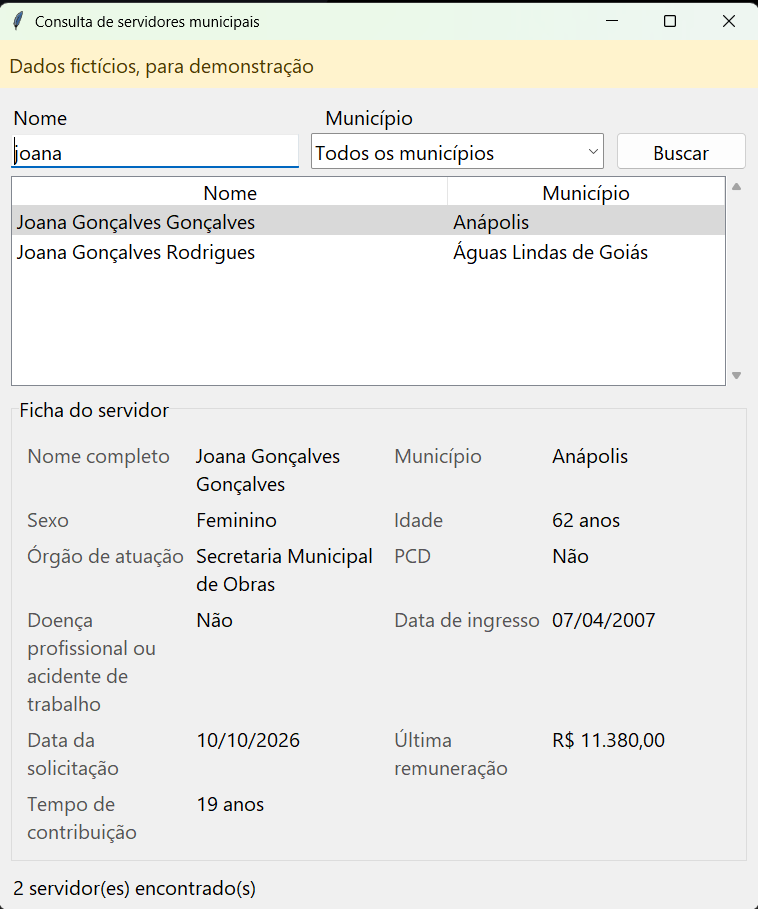
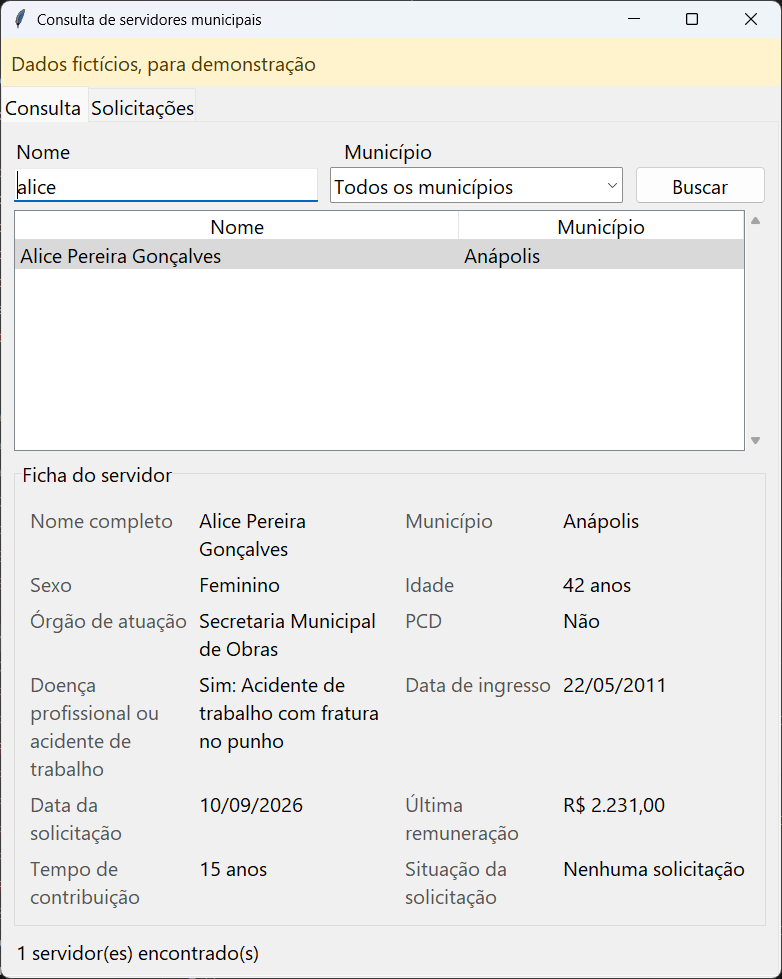
docs(resumo): capturas reais e resumo atualizados com a aba Solicitações
Regenera as 11 capturas da janela real (nomes novos, aprovar e desaprovar, situação na ficha), atualiza o resumo (6 operações, 191 testes, 18 RF, passo a passo de solicitações) e registra o checkpoint de 24/11.

diff --git a/docs/resumo/resumo-do-projeto.html b/docs/resumo/resumo-do-projeto.html
@@ -44,10 +44,10 @@
 
 <h1>Consulta de servidores municipais</h1>
 <p class="sub">Protótipo cliente-servidor com comunicação protegida por TLS, feito para a Secretaria de Atos de Pessoal do TCM-GO (Projeto Integrador III-A, PUC Goiás).</p>
-<p class="meta">Resumo técnico para acompanhamento do projeto, em 18/11/2026. Não é o relatório oficial do PI (RP-03), que tem formato e seções próprios. Dados do sistema: 100% fictícios.</p>
+<p class="meta">Resumo técnico para acompanhamento do projeto, em 24/11/2026. Não é o relatório oficial do PI (RP-03), que tem formato e seções próprios. Dados do sistema: 100% fictícios.</p>
 
 <div class="box">
-  <strong>Em uma frase:</strong> um servidor Python guarda uma base fictícia de 50 servidores de 10 municípios de Goiás e responde, por um canal TLS, às buscas de uma janela Tkinter, que mostra a lista de resultados e a ficha completa de cada servidor. O cliente só confia em servidores com certificado emitido pela CA local do projeto.
+  <strong>Em uma frase:</strong> um servidor Python guarda uma base fictícia de 50 servidores de 10 municípios de Goiás e responde, por um canal TLS, às buscas de uma janela Tkinter, que mostra a lista de resultados e a ficha completa de cada servidor. Uma segunda aba traz 10 requerimentos de aposentadoria fictícios, que o analista aprova ou desaprova, com a situação gravada no servidor. O cliente só confia em servidores com certificado emitido pela CA local do projeto.
 </div>
 
 <h2>1. O que a proposta pede e o que o sistema entrega</h2>
@@ -55,8 +55,8 @@
 <table>
   <tr><th style="width:21%">Pedido da proposta</th><th>Como o projeto atende</th><th style="width:14%">Situação</th></tr>
   <tr><td>Instituição real e necessidade identificada</td><td>TCM-GO. A análise de aposentadorias exige consultar a situação funcional de servidores de vários municípios, hoje em fontes separadas. Representante: Juliana, chefe direta do estudante.</td><td class="ok">Definido</td></tr>
-  <tr><td>Servidor que armazena, recebe solicitações, processa e devolve</td><td><code>consulta/servidor.py</code> carrega <code>data/servidores.json</code>, atende cada conexão em uma thread e executa três operações: <code>municipios</code>, <code>buscar</code> e <code>ficha</code>.</td><td class="ok">Pronto</td></tr>
-  <tr><td>Cliente que consulta por rede e apresenta de forma organizada</td><td>Janela Tkinter (<code>consulta/interface.py</code>): campo de nome, filtro de município, lista de resultados e painel com a ficha. Cada ação vira uma requisição pela rede.</td><td class="ok">Pronto</td></tr>
+  <tr><td>Servidor que armazena, recebe solicitações, processa e devolve</td><td><code>consulta/servidor.py</code> carrega <code>data/servidores.json</code>, atende cada conexão em uma thread e executa seis operações: <code>municipios</code>, <code>buscar</code>, <code>ficha</code>, <code>solicitacoes</code>, <code>documento</code> e <code>decidir</code>. As solicitações ficam em <code>data/solicitacoes.json</code> (consulta/solicitacoes.py).</td><td class="ok">Pronto</td></tr>
+  <tr><td>Cliente que consulta por rede e apresenta de forma organizada</td><td>Janela Tkinter (<code>consulta/interface.py</code>): campo de nome, filtro de município, lista de resultados e painel com a ficha. A aba Solicitações lista os requerimentos, mostra o documento formal e tem os botões Aprovar e Desaprovar. Cada ação vira uma requisição pela rede.</td><td class="ok">Pronto</td></tr>
   <tr><td>Sem banco, execução local, sem hospedagem</td><td>Base em arquivo JSON, tudo em <code>127.0.0.1</code>, só biblioteca padrão do Python (um teste confere os imports).</td><td class="ok">Pronto</td></tr>
   <tr><td>Proteger a comunicação com recurso de segurança existente</td><td>TLS (módulo <code>ssl</code> do Python) com CA local criada pelo <code>openssl</code>. O cliente exige certificado assinado pela CA do projeto e recusa qualquer outro.</td><td class="ok">Pronto</td></tr>
   <tr><td>Evitar exposição de informação sensível</td><td>Base fictícia (aviso na janela e no README). A data de nascimento nunca sai do servidor, só a idade. Chaves privadas fora do Git. O log do servidor não registra o conteúdo das fichas.</td><td class="ok">Pronto</td></tr>
@@ -64,7 +64,7 @@
   <tr><td>Código-fonte com instruções de execução</td><td>Repositório no GitHub (PR #2 mergeado na <code>main</code>) e <code>README.md</code> com o passo a passo.</td><td class="ok">Pronto</td></tr>
   <tr><td>Relatório técnico PDF (até 5 págs)</td><td>A escrever, com as capturas de tela deste documento como evidência.</td><td class="pend">Pendente (07/12)</td></tr>
   <tr><td>Vídeo de até 10 min</td><td>A gravar: servidor e cliente rodando, uma busca, a ficha, a recusa do servidor falso.</td><td class="pend">Pendente (07/12)</td></tr>
-  <tr><td>Carta de Início e Termos assinados</td><td>Carta assinada pelo estudante e pelo professor. Termos aguardam o preenchimento e a assinatura da Juliana (prazo 23/11, 23h59).</td><td class="pend">Parcial</td></tr>
+  <tr><td>Carta de Início e Termos assinados</td><td>Carta assinada pelo estudante e pelo professor. Termos assinados e enviados em 20/11 (prazo 23/11, 23h59).</td><td class="ok">Pronto</td></tr>
 </table>
 
 <h2>2. Como o sistema funciona</h2>
@@ -97,7 +97,8 @@
 
 <ul>
   <li><strong>Protocolo:</strong> uma conexão TLS por requisição. O cliente envia uma linha JSON (UTF-8), o servidor responde uma linha JSON e a conexão fecha. Limite de 64 KiB por linha e 5 s de timeout.</li>
-  <li><strong>Operações:</strong> <code>municipios</code> (lista para o filtro), <code>buscar</code> (nome e município) e <code>ficha</code> (por id).</li>
+  <li><strong>Operações:</strong> <code>municipios</code> (lista para o filtro), <code>buscar</code> (nome e município), <code>ficha</code> (por id), <code>solicitacoes</code> (lista dos requerimentos), <code>documento</code> (requerimento de uma solicitação) e <code>decidir</code> (aprovar ou desaprovar).</li>
+  <li><strong>Solicitações:</strong> o servidor sorteia 10 solicitações de servidores diferentes na primeira execução e grava em <code>data/solicitacoes.json</code> (fora do Git). Todas nascem Pendentes. A decisão pode ser trocada, a última vale, e sobrevive a reiniciar o servidor. Se o arquivo estiver inválido, o servidor se recusa a subir, e uma falha ao gravar mantém a situação anterior.</li>
   <li><strong>Erros tratados:</strong> <code>REQUISICAO_INVALIDA</code>, <code>OPERACAO_DESCONHECIDA</code>, <code>NAO_ENCONTRADO</code> e <code>ERRO_INTERNO</code>. Um erro afeta só a conexão que o causou.</li>
   <li><strong>Cálculos no servidor:</strong> idade e tempo de contribuição, em anos completos, até a data da solicitação. O cliente só apresenta.</li>
   <li><strong>Janela que não trava:</strong> a rede roda em thread de trabalho, e o resultado volta por uma fila. Se o servidor cair, a janela mostra o aviso e continua aberta.</li>
@@ -118,8 +119,9 @@
   <tr><td>Interface</td><td>Janela Tkinter, no lugar de linha de comando</td><td>A proposta aceita CLI, mas a janela é mais apresentável no vídeo. Fonte de 12 pt ou mais para gravação de tela.</td></tr>
   <tr><td>Busca</td><td>Por trecho do nome, sem acento e sem diferenciar maiúsculas; filtro por município; nome vazio lista todos</td><td>O analista nem sempre lembra a grafia exata. Normalização em NFKD, igual para busca e comparação.</td></tr>
   <tr><td>Cálculos</td><td>Idade e tempo de contribuição em anos completos, até a data da solicitação</td><td>Mesma referência de data para os dois valores. Simplificação aceita pelo estudante.</td></tr>
-  <tr><td>Escopo recusado</td><td>Sem login, sem indicar elegibilidade à aposentadoria, sem edição de dados</td><td>A proposta manda evitar complexidade excessiva. O sistema só apresenta dados. Login ficou como melhoria futura.</td></tr>
-  <tr><td>Método de trabalho</td><td>Spec-Driven: PRD, TechSpec, 12 tasks, check-spec e execução task a task</td><td>Cada requisito (14 RF, 6 RNF, 6 RP) tem rastreio até um componente e um teste. Nada foi feito sem requisito.</td></tr>
+  <tr><td>Solicitações</td><td>10 requerimentos fictícios sorteados uma vez e gravados em arquivo; situação persistente (Pendente, Aprovada, Desaprovada)</td><td>Mostra o fluxo do analista sem banco de dados. O documento traz só os dados do requerimento: idade, tempo de contribuição, PCD, doença e remuneração ficam na aba Consulta, para o analista conferir. A decisão pode ser trocada para repetir a demonstração.</td></tr>
+  <tr><td>Escopo recusado</td><td>Sem login, sem indicar elegibilidade à aposentadoria, sem edição dos dados da base</td><td>A proposta manda evitar complexidade excessiva. O sistema só apresenta os dados da base; a única coisa gravada é a decisão das solicitações. Login ficou como melhoria futura.</td></tr>
+  <tr><td>Método de trabalho</td><td>Spec-Driven: PRD, TechSpec, 16 tasks, check-spec e execução task a task</td><td>Cada requisito (18 RF, 7 RNF, 6 RP) tem rastreio até um componente e um teste. Nada foi feito sem requisito.</td></tr>
 </table>
 
 <h2>4. Ferramentas usadas</h2>
@@ -127,54 +129,63 @@
 <table>
   <tr><th style="width:24%">Ferramenta</th><th>Uso no projeto</th></tr>
   <tr><td>Python 3.15 (código para 3.10+)</td><td>Servidor, cliente, scripts e testes. Módulos: <code>socket</code>, <code>ssl</code>, <code>threading</code>, <code>json</code>, <code>queue</code>, <code>unicodedata</code>, <code>datetime</code>, <code>argparse</code>.</td></tr>
-  <tr><td>Tkinter / ttk</td><td>Janela do cliente: <code>Entry</code>, <code>Combobox</code>, <code>Treeview</code> e painel de ficha.</td></tr>
+  <tr><td>Tkinter / ttk</td><td>Janela do cliente: <code>Notebook</code> (abas Consulta e Solicitações), <code>Entry</code>, <code>Combobox</code>, <code>Treeview</code>, painel de ficha e <code>Text</code> para o documento.</td></tr>
   <tr><td>OpenSSL 3.5</td><td>Gera a CA local e o certificado do servidor (<code>scripts/gerar_certificados.py</code>). No Windows vem com o Git for Windows.</td></tr>
-  <tr><td><code>unittest</code> e <code>ast</code></td><td>117 testes automatizados. O <code>ast</code> confere que nenhum import sai da biblioteca padrão.</td></tr>
+  <tr><td><code>unittest</code> e <code>ast</code></td><td>191 testes automatizados. O <code>ast</code> confere que nenhum import sai da biblioteca padrão.</td></tr>
   <tr><td>Git e GitHub</td><td>Commits no padrão Conventional Commits, uma branch de trabalho e Pull Request revisado e mergeado pelo estudante.</td></tr>
   <tr><td>Claude Code</td><td>Assistente de desenvolvimento, usado no fluxo Spec-Driven (levantamento do PRD, TechSpec, tasks em Gherkin, implementação e testes). Decisões e aprovações ficaram com o estudante.</td></tr>
   <tr><td>Context7</td><td>Consulta à documentação do módulo <code>ssl</code> do CPython (3.13), para configurar a verificação estrita do certificado.</td></tr>
 </table>
 
 <h2>5. O que o sistema mostra (capturas da janela real)</h2>
-<p>Capturas feitas em 18/11/2026 com o servidor e a janela reais, comunicando por TLS 1.3 em <code>127.0.0.1</code>. A faixa amarela avisa que os dados são fictícios.</p>
+<p>Capturas feitas em 24/11/2026 com o servidor e a janela reais, comunicando por TLS 1.3 em <code>127.0.0.1</code>. A faixa amarela avisa que os dados são fictícios. As capturas 7 a 10 usam um arquivo de solicitações novo, então o sorteio delas não é o mesmo da sua máquina.</p>
 
 <div class="duo">
-  <figure class="fig"><img src="img/01-inicial.png" alt="Janela inicial"><figcaption>1. Tela inicial: faixa de aviso, nome, filtro de município e botão Buscar.</figcaption></figure>
-  <figure class="fig"><img src="img/02-lista-joana.png" alt="Lista de resultados da busca joana"><figcaption>2. Busca por "joana": 2 resultados, de municípios diferentes.</figcaption></figure>
+  <figure class="fig"><img src="img/01-inicial.png" alt="Janela inicial"><figcaption>1. Tela inicial: faixa de aviso, abas Consulta e Solicitações, nome, filtro de município e botão Buscar.</figcaption></figure>
+  <figure class="fig"><img src="img/02-lista-marc.png" alt="Lista de resultados da busca marc"><figcaption>2. Busca por "marc": 2 resultados, de municípios diferentes (Márcia e Marcos).</figcaption></figure>
 </div>
 <div class="duo">
-  <figure class="fig"><img src="img/03-ficha.png" alt="Ficha do servidor"><figcaption>3. Ficha do servidor: datas em DD/MM/AAAA, valor em R$, idade e tempo de contribuição calculados no servidor.</figcaption></figure>
-  <figure class="fig"><img src="img/04-fatima.png" alt="Busca fatima sem acento encontra Fátima"><figcaption>4. "fatima" (sem acento) encontra "Fátima". A ficha mostra "Sim: Acidente de trabalho com fratura no punho".</figcaption></figure>
+  <figure class="fig"><img src="img/03-ficha.png" alt="Ficha do servidor"><figcaption>3. Ficha do servidor: datas em DD/MM/AAAA, valor em R$, idade e tempo de contribuição calculados no servidor. Aqui, "Sim: Acidente de trabalho com fratura no punho" e "Nenhuma solicitação".</figcaption></figure>
+  <figure class="fig"><img src="img/04-antonia.png" alt="Busca antonia sem acento encontra Antônia"><figcaption>4. "antonia" (sem acento) encontra "Antônia".</figcaption></figure>
 </div>
 <div class="duo">
   <figure class="fig"><img src="img/06-filtro-formosa.png" alt="Filtro por município Formosa"><figcaption>5. Filtro por município (Formosa) com nome vazio: lista os 5 servidores do município.</figcaption></figure>
   <figure class="fig"><img src="img/05-sem-resultado.png" alt="Nenhum servidor encontrado"><figcaption>6. Busca sem resultado: mensagem clara, sem erro.</figcaption></figure>
 </div>
 <div class="duo">
-  <figure class="fig"><img src="img/07-ca-falsa.png" alt="Servidor não confiável"><figcaption>7. Servidor com certificado de outra CA: o cliente recusa e avisa.</figcaption></figure>
+  <figure class="fig"><img src="img/08-solicitacao-pendente.png" alt="Aba Solicitações com requerimento pendente"><figcaption>7. Aba Solicitações: 10 requerimentos, todos Pendentes. O documento formal do selecionado aparece abaixo, com os botões Aprovar e Desaprovar.</figcaption></figure>
+  <figure class="fig"><img src="img/09-solicitacao-aprovada.png" alt="Requerimento aprovado"><figcaption>8. Depois de Aprovar: a lista e o documento passam a mostrar "Aprovada", com data e hora da decisão.</figcaption></figure>
+</div>
+<div class="duo">
+  <figure class="fig"><img src="img/10-solicitacao-desaprovada.png" alt="Requerimento desaprovado"><figcaption>9. Outra solicitação, Desaprovada. A lista mostra uma Aprovada, uma Desaprovada e as demais Pendentes.</figcaption></figure>
+  <figure class="fig"><img src="img/11-ficha-situacao.png" alt="Ficha com a situação da solicitação"><figcaption>10. A situação vai à ficha do servidor na aba Consulta: "Situação da solicitação: Aprovada".</figcaption></figure>
+</div>
+<div class="duo">
+  <figure class="fig"><img src="img/07-ca-falsa.png" alt="Servidor não confiável"><figcaption>11. Servidor com certificado de outra CA: o cliente recusa e avisa.</figcaption></figure>
   <div class="box" style="flex:1;margin-top:6px">
-    <strong>Por que a captura 7 importa.</strong> O servidor falso estava no ar e respondia por TLS, mas seu certificado foi assinado por uma CA diferente da <code>ca.crt</code> do projeto. O aperto de mão falhou antes de qualquer consulta, então nenhum dado foi trocado. O log do servidor falso registra <code>falha_de_conexao (SSLError)</code>. É a prova do requisito de proteger a comunicação (RF-14).
+    <strong>Por que a captura 11 importa.</strong> O servidor falso estava no ar e respondia por TLS, mas seu certificado foi assinado por uma CA diferente da <code>ca.crt</code> do projeto. O aperto de mão falhou antes de qualquer consulta, então nenhum dado foi trocado. O log do servidor falso registra <code>falha_de_conexao (SSLError)</code>. É a prova do requisito de proteger a comunicação (RF-14).
   </div>
 </div>
 
 <h2>6. Como foi testado e validado</h2>
 
-<h3>Resultado dos checks em 18/11/2026</h3>
-<pre class="cmd">python -m unittest discover -s tests          -> Ran 117 tests, OK (skipped=1)
+<h3>Resultado dos checks em 24/11/2026</h3>
+<pre class="cmd">python -m unittest discover -s tests          -> Ran 191 tests, OK (skipped=1)
 python -m compileall -q consulta scripts tests -> sem erros
 git check-ignore certs/servidor.key certs/ca.key -> ambos ignorados (chaves fora do Git)</pre>
 <p>O teste pulado é o que só se aplica a sistemas POSIX. Nenhum warning novo.</p>
 
 <table>
   <tr><th style="width:30%">Arquivo de teste</th><th style="width:9%">Testes</th><th>O que prova</th></tr>
-  <tr><td>test_integracao_tls.py</td><td>30</td><td>Servidor e cliente reais com TLS: as três operações, os quatro códigos de erro, duas consultas simultâneas, certificado de outra CA recusado, servidor parado, busca abaixo de 1 s.</td></tr>
-  <tr><td>test_interface.py</td><td>26</td><td>Janela com cliente falso: lista, ficha, "nenhum resultado", erro de rede, faixa "dados fictícios", fonte de 12 pt ou mais.</td></tr>
+  <tr><td>test_integracao_tls.py</td><td>45</td><td>Servidor e cliente reais com TLS: as seis operações, os códigos de erro, duas consultas simultâneas, certificado de outra CA recusado, servidor parado, busca abaixo de 1 s, decisão que sobrevive a reiniciar o servidor.</td></tr>
+  <tr><td>test_solicitacoes.py</td><td>27</td><td>Sorteio de 10 solicitações gravado e reutilizado, situação inicial Pendente, aprovar, desaprovar e trocar a decisão, duas decisões ao mesmo tempo, arquivo inválido recusado, falha ao gravar sem arquivo pela metade, arquivo fora do Git.</td></tr>
+  <tr><td>test_interface.py</td><td>51</td><td>Janela com cliente falso: lista, ficha, "nenhum resultado", erro de rede, faixa "dados fictícios", fonte de 12 pt ou mais, aba Solicitações, documento formal, botões Aprovar e Desaprovar e respostas atrasadas descartadas.</td></tr>
   <tr><td>test_protocolo.py</td><td>14</td><td>Linha válida, JSON inválido, mensagem grande demais.</td></tr>
   <tr><td>test_busca.py</td><td>12</td><td>Acentos, maiúsculas, trecho do nome, filtro por município.</td></tr>
   <tr><td>test_certificados.py</td><td>11</td><td>Geração da CA e do certificado, <code>openssl verify</code>, chaves fora do Git.</td></tr>
-  <tr><td>test_dominio.py</td><td>8</td><td>Anos completos: aniversário no dia, na véspera e em 29/02; campos da ficha.</td></tr>
+  <tr><td>test_dominio.py</td><td>9</td><td>Anos completos: aniversário no dia, na véspera e em 29/02; campos da ficha.</td></tr>
   <tr><td>test_sem_dependencias_externas.py</td><td>7</td><td>Todo import vem da biblioteca padrão.</td></tr>
-  <tr><td>test_base.py e test_gerar_base.py</td><td>5 + 4</td><td>Base válida, 10 municípios e 50 servidores, geração idêntica byte a byte.</td></tr>
+  <tr><td>test_base.py e test_gerar_base.py</td><td>5 + 10</td><td>Base válida, 10 municípios e 50 servidores, nomes e sexo coerentes, geração idêntica byte a byte.</td></tr>
 </table>
 
 <h3>Rastreio: requisito da spec, prova</h3>
@@ -185,7 +196,8 @@ git check-ignore certs/servidor.key certs/ca.key -> ambos ignorados (chaves fora
   <tr><td>RF-10, RF-11 cliente-servidor e simultaneidade</td><td>Integração com duas consultas ao mesmo tempo, uma delas lenta.</td></tr>
   <tr><td>RF-12, RF-13 falhas</td><td>Servidor parado vira mensagem; solicitação inválida recebe erro e o servidor segue atendendo.</td></tr>
   <tr><td>RF-14 TLS e CA local</td><td>Handshake com a CA do projeto funciona; com outra CA o cliente recusa (captura 07).</td></tr>
-  <tr><td>RNF-01 a RNF-06</td><td>Faixa fictícia, chaves ignoradas pelo Git, busca abaixo de 1 s, imports da biblioteca padrão, fonte de 12 pt, certificados regeneráveis por script.</td></tr>
+  <tr><td>RF-15 a RF-18 solicitações</td><td>Testes de sorteio e persistência, de decisão (a última vale) e da aba; capturas 7 a 10 (seção 5).</td></tr>
+  <tr><td>RNF-01 a RNF-07</td><td>Faixa fictícia, chaves ignoradas pelo Git, busca abaixo de 1 s, imports da biblioteca padrão, fonte de 12 pt, certificados regeneráveis por script, gravação das solicitações sem corromper o arquivo.</td></tr>
 </table>
 
 <div class="box warn">
@@ -213,22 +225,34 @@ git check-ignore certs/servidor.key certs/ca.key -> ambos ignorados (chaves fora
 
   <li><strong>Terminal 2: abrir o cliente</strong>
     <pre class="cmd">python -m consulta.interface</pre>
-    <span class="esperado">Esperado: janela "Consulta de servidores municipais" com a faixa amarela "Dados fictícios, para demonstração". A lista de municípios carrega sozinha no filtro.</span></li>
+    <span class="esperado">Esperado: janela "Consulta de servidores municipais" com a faixa amarela "Dados fictícios, para demonstração" e as abas "Consulta" e "Solicitações". A lista de municípios carrega sozinha no filtro.</span></li>
 
-  <li><strong>Busca simples.</strong> Digite <code>joana</code> e clique em Buscar.
-    <span class="esperado">Esperado: 2 resultados: Joana Gonçalves Gonçalves (Anápolis) e Joana Gonçalves Rodrigues (Águas Lindas de Goiás). Rodapé: "2 servidor(es) encontrado(s)".</span></li>
+  <li><strong>Busca simples.</strong> Digite <code>marc</code> e clique em Buscar.
+    <span class="esperado">Esperado: 2 resultados: Márcia Rodrigues Araújo (Aparecida de Goiânia) e Marcos Santos Gonçalves (Itumbiara). Rodapé: "2 servidor(es) encontrado(s)".</span></li>
 
-  <li><strong>Abrir a ficha.</strong> Clique em "Joana Gonçalves Gonçalves".
-    <span class="esperado">Esperado: Feminino, 62 anos, Secretaria Municipal de Obras, PCD Não, doença profissional Não, ingresso 07/04/2007, solicitação 10/10/2026, remuneração R$ 11.380,00, tempo de contribuição 19 anos. Não aparece data de nascimento nem se o servidor "pode se aposentar".</span></li>
+  <li><strong>Abrir a ficha.</strong> Busque <code>alice</code> e clique em "Alice Pereira Gonçalves".
+    <span class="esperado">Esperado: Anápolis, Feminino, 42 anos, Secretaria Municipal de Obras, PCD Não, doença profissional "Sim: Acidente de trabalho com fratura no punho", ingresso 22/05/2011, solicitação 10/09/2026, remuneração R$ 2.231,00, tempo de contribuição 15 anos. Não aparece data de nascimento nem se o servidor "pode se aposentar". A situação da solicitação aparece como "Nenhuma solicitação" (ou a situação, se ela tiver um requerimento na aba Solicitações).</span></li>
 
-  <li><strong>Acentos e maiúsculas.</strong> Busque <code>fatima</code>, depois <code>FÁTIMA</code> e depois <code>fatim</code>.
-    <span class="esperado">Esperado: as três buscas dão os mesmos 3 resultados (Fátima Alves Alves, Fátima Alves Santos, Fátima Araújo Ferreira). A ficha de Fátima Alves Alves mostra "Sim: Acidente de trabalho com fratura no punho".</span></li>
+  <li><strong>Acentos e maiúsculas.</strong> Busque <code>antonia</code> e depois <code>ANTÔNIA</code>.
+    <span class="esperado">Esperado: as duas buscas dão o mesmo resultado: Antônia Rodrigues Barbosa (Goiânia). A ficha mostra 53 anos e tempo de contribuição de 11 anos. Agora busque <code>antoni</code>: sobram 2 (Antônia Rodrigues Barbosa e Antônio Ferreira Pereira), porque a busca é por trecho do nome.</span></li>
 
   <li><strong>Filtro por município.</strong> Apague o nome, escolha <code>Formosa</code> no filtro e clique em Buscar.
-    <span class="esperado">Esperado: os 5 servidores de Formosa (nome vazio lista todos). Agora digite <code>marcia</code> com Formosa escolhido: devem sobrar 2 (as duas Márcias). Volte o filtro para "Todos os municípios".</span></li>
+    <span class="esperado">Esperado: os 5 servidores de Formosa (nome vazio lista todos). Agora digite <code>carvalho</code> com Formosa escolhido: devem sobrar 2 (Paulo Gonçalves Carvalho e Daniel Souza Carvalho). Volte o filtro para "Todos os municípios".</span></li>
 
   <li><strong>Busca sem resultado.</strong> Digite <code>zzzz</code> e busque.
     <span class="esperado">Esperado: mensagem "Nenhum servidor encontrado", sem erro e sem fechar a janela.</span></li>
+
+  <li><strong>Aba Solicitações.</strong> Clique na aba "Solicitações" e depois em qualquer linha da lista.
+    <span class="esperado">Esperado: 10 requerimentos (REQ-2026-0001 a REQ-2026-0010), todos "Pendente" na primeira execução, de servidores e municípios diferentes. Abaixo aparece o requerimento formal: número, "Situação: Pendente", o pedido ao Setor de Pessoal do município e a assinatura. O texto concorda com o sexo do servidor (a servidora, lotada, ingressada). Não aparecem idade, tempo de contribuição, PCD, doença nem remuneração. O rodapé avisa que o documento é fictício. Rodapé da janela: "10 solicitação(ões)".</span></li>
+
+  <li><strong>Aprovar e desaprovar.</strong> Com uma solicitação selecionada, clique em Aprovar. Selecione outra e clique em Desaprovar. Depois volte à primeira e clique em Desaprovar.
+    <span class="esperado">Esperado: a coluna Situação e o documento mudam na hora, com "Aprovada em" ou "Desaprovada em", a data e a hora da decisão. A segunda decisão sobre a mesma solicitação substitui a primeira (a última vale). Os botões ficam desabilitados enquanto nada está selecionado.</span></li>
+
+  <li><strong>Situação na ficha.</strong> Anote o nome de um servidor com solicitação decidida, vá à aba "Consulta", busque pelo nome e abra a ficha.
+    <span class="esperado">Esperado: o último campo, "Situação da solicitação", mostra Aprovada ou Desaprovada. Um servidor sem requerimento mostra "Nenhuma solicitação".</span></li>
+
+  <li><strong>A decisão sobrevive a reiniciar.</strong> No Terminal 1, aperte Ctrl+C e suba o servidor de novo (<code>python -m consulta.servidor</code>). Na janela, volte à aba Solicitações (ela recarrega a lista ao ser aberta).
+    <span class="esperado">Esperado: as situações decididas continuam iguais. Para voltar tudo a Pendente e sortear outros 10 servidores, pare o servidor, apague <code>data/solicitacoes.json</code> e suba o servidor de novo.</span></li>
 
   <li><strong>Vários clientes ao mesmo tempo.</strong> Abra um terceiro terminal, rode <code>python -m consulta.interface</code> de novo e faça buscas diferentes nas duas janelas.
     <span class="esperado">Esperado: as duas janelas respondem, sem uma esperar a outra.</span></li>
@@ -242,24 +266,23 @@ git check-ignore certs/servidor.key certs/ca.key -> ambos ignorados (chaves fora
   <li><strong>Servidor falso (a prova da segurança).</strong> Com o servidor verdadeiro parado:
     <pre class="cmd">python scripts/gerar_certificados.py certs/falso
 python -m consulta.servidor --certs certs/falso</pre>
-    Na janela do cliente, busque <code>joana</code>.
+    Na janela do cliente, busque <code>marc</code>.
     <span class="esperado">Esperado: "Servidor não confiável: o certificado não foi emitido pela CA do projeto." A lista fica vazia, e nenhum dado foi trocado. Pare o servidor falso (Ctrl+C) e rode o passo 2 para voltar ao normal.</span></li>
 
   <li><strong>Conferir os testes e os segredos</strong> (qualquer terminal)
     <pre class="cmd">python -m unittest discover -s tests
 git check-ignore certs/servidor.key certs/ca.key</pre>
-    <span class="esperado">Esperado: "OK" com 117 testes (1 pulado) e as duas chaves listadas como ignoradas.</span></li>
+    <span class="esperado">Esperado: "OK" com 191 testes (1 pulado) e as duas chaves listadas como ignoradas.</span></li>
 </ol>
 
 <h2>8. O que falta e próximos passos</h2>
 <table>
   <tr><th style="width:18%">Prazo</th><th>O que fazer</th></tr>
-  <tr><td>23/11, 23h59</td><td>Termos com a Juliana: ela preenche, o estudante assina de novo por gov.br, ela assina, e tudo é anexado na Plataforma A. A Carta já está assinada.</td></tr>
-  <tr><td>Antes de 26/11</td><td>Demonstrar à Juliana usando o passo a passo acima (passos 2 a 8 e 12). Conferir os campos da ficha com ela e registrar por escrito as considerações.</td></tr>
+  <tr><td>Antes de 26/11</td><td>Demonstrar à Juliana usando o passo a passo acima (passos 2 a 12 e 16). Conferir os campos da ficha com ela e registrar por escrito as considerações.</td></tr>
   <tr><td>07/12, 23h59</td><td>Relatório PDF (até 5 páginas, Arial 12, margens 2,5 e 3 cm, com as capturas da seção 5); vídeo de até 10 minutos; envio nos dois campos da Plataforma A.</td></tr>
 </table>
 
-<p class="meta">Repositório: github.com/FhilipeRodrigues/projeto-integrador-iii-a. Especificação completa em <code>docs/specs/2026-11-16-consulta-servidores-tcmgo/</code> (PRD, TechSpec, 12 tasks e check-spec).</p>
+<p class="meta">Repositório: github.com/FhilipeRodrigues/projeto-integrador-iii-a. Especificação completa em <code>docs/specs/2026-11-16-consulta-servidores-tcmgo/</code> (PRD, TechSpec, 16 tasks e check-spec).</p>
 
 </body>
 </html>

diff --git a/docs/checkpoints/2026-11-24-capturas-e-resumo.md b/docs/checkpoints/2026-11-24-capturas-e-resumo.md
@@ -1,0 +1,28 @@
+# Checkpoint: capturas reais e resumo regenerados (24/11/2026)
+
+Complementa [2026-11-23-task-16-feita.md](2026-11-23-task-16-feita.md). Onde houver conflito, vale este.
+
+## Progresso
+
+- Estudante confirmou: `main` atualizada e **termos enviados em 20/11** (RP-01 cumprido).
+- **Capturas reais regeneradas** em `docs/resumo/img/` (11 imagens, janela real contra servidor real por TLS): inicial, lista "marc", ficha (Alice), acentos ("antonia"), sem resultado, filtro Formosa, aba Solicitações pendente, aprovada, desaprovada, ficha com a situação e CA falsa. As antigas "joana" e "fatima" foram removidas.
+- Elas usaram um arquivo de solicitações temporário; `data/solicitacoes.json` não foi tocado (10 solicitações, todas Pendentes).
+- **`resumo-do-projeto.html` atualizado** (nomes, seis operações, aba Solicitações, 191 testes, 18 RF / 7 RNF, passo a passo com 4 passos novos de solicitações, termos enviados) e **PDF regenerado: 11 páginas** (eram 8). Não é o relatório RP-03.
+- Checks: `python -m unittest discover -s tests` com 191 testes OK (1 pulado) e `compileall` sem erro.
+
+## Decisões
+
+- Mantidas as anteriores. O PDF continua fora do git (`*.pdf` no `.gitignore`).
+- As capturas saem de um script de captura (GDI via ctypes, sem dependências) que ficou só no scratchpad da sessão e não foi para o repositório.
+
+## Pendências e observações
+
+- **Teste instável:** na primeira rodada completa de hoje `test_interface.InterfaceErrosDeRedeTest.test_O_servidor_volta_ao_ar_e_os_municipios_aparecem` falhou; passou em 3 execuções isoladas e em outra rodada completa. Mesma família do flake já registrado (limite de 5 s em `JanelaBase.esperar` com carga na máquina). Se voltar, aumentar o limite.
+- Nas capturas da aba Solicitações o documento ocupa as 17 linhas do campo e a assinatura fica na borda inferior, com barra de rolagem. É o comportamento real; avaliar se vale mais uma linha ou duas.
+- **Alterações ainda não commitadas** (imagens, HTML, checkpoint e checklist). Commit só a pedido.
+
+## Próximos passos
+
+1. Commitar as capturas e o resumo (quando o estudante pedir).
+2. **RP-02, antes de 26/11:** demonstração à Juliana pelo passo a passo do resumo (passos 2 a 12 e 16), registrando as considerações.
+3. **Até 07/12 23h59:** relatório PDF (até 5 págs), vídeo (até 10 min) e envio, pela checklist.

diff --git a/docs/checkpoints/2026-11-23-checklist-relatorio-e-video.md b/docs/checkpoints/2026-11-23-checklist-relatorio-e-video.md
@@ -5,7 +5,7 @@ Fechamento da pendência do `tasks.md` ("vale uma checklist própria para esses 
 ## 0. Antes de tudo
 
 - [ ] Abrir a janela de verdade e rodar o fluxo do README (servidor + interface) com a base atual (nomes novos, aba Solicitações, aprovar/desaprovar).
-- [ ] Regenerar as capturas em `docs/resumo/img/` (nomes e aba Solicitações mudaram) e o PDF do resumo (comando no checkpoint de 18/11, "Como retomar", item 5).
+- [x] Regenerar as capturas em `docs/resumo/img/` (nomes e aba Solicitações mudaram) e o PDF do resumo. Feito em 24/11, ver `2026-11-24-capturas-e-resumo.md`.
 - [ ] Se `data/solicitacoes.json` estiver com decisões de teste, apagar antes de gravar vídeo ou capturas finais (o sorteio é regravado e a situação volta a Pendente).
 
 ## 1. Demonstração à Juliana (RP-02, antes de 26/11)
